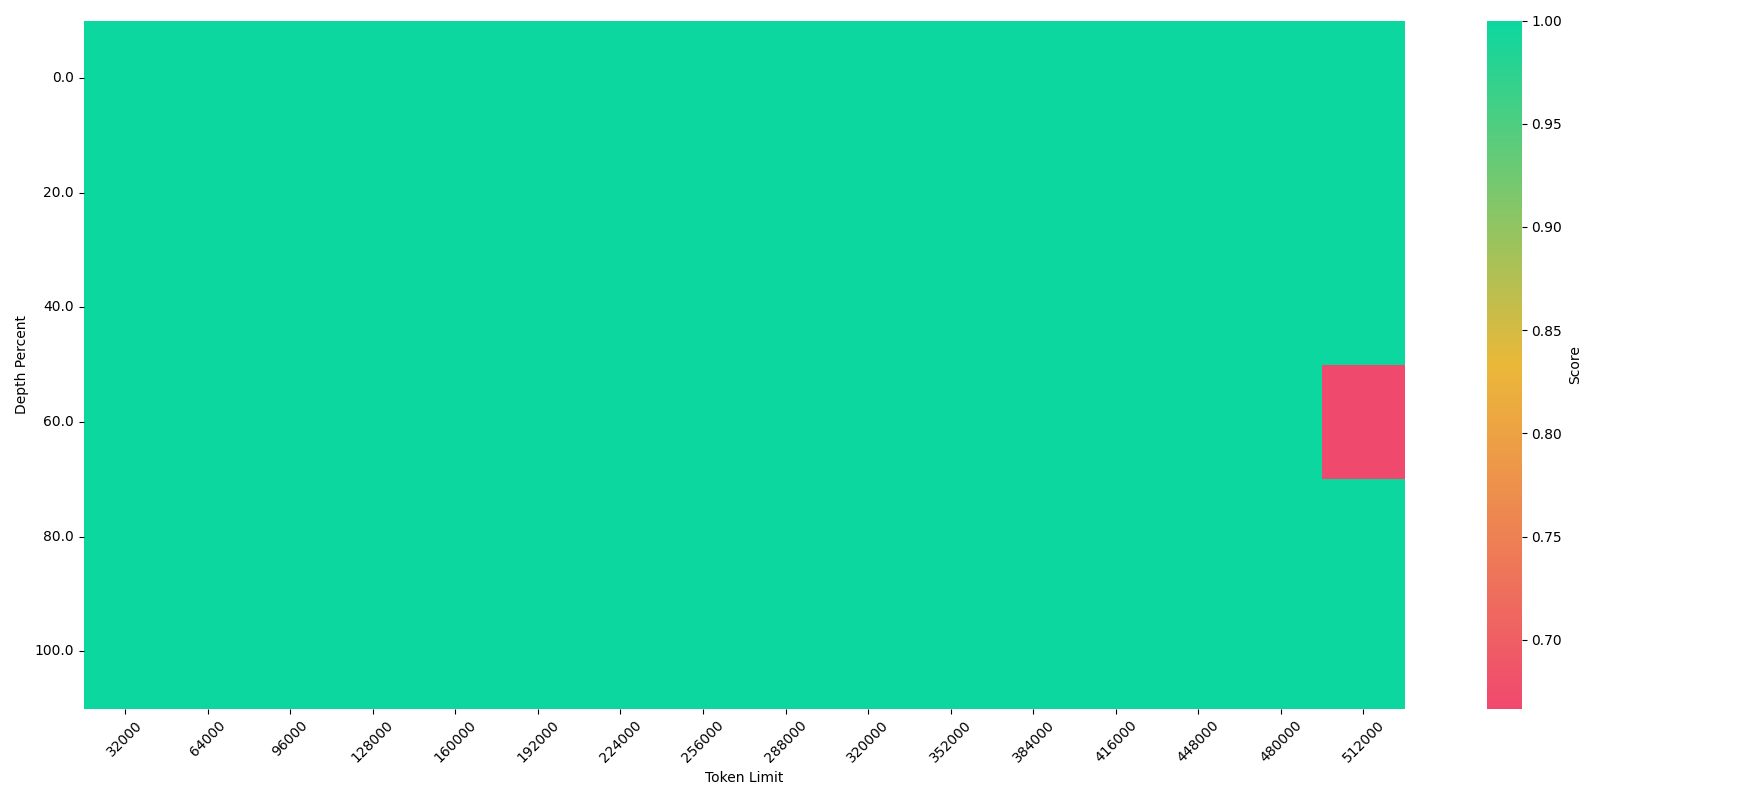
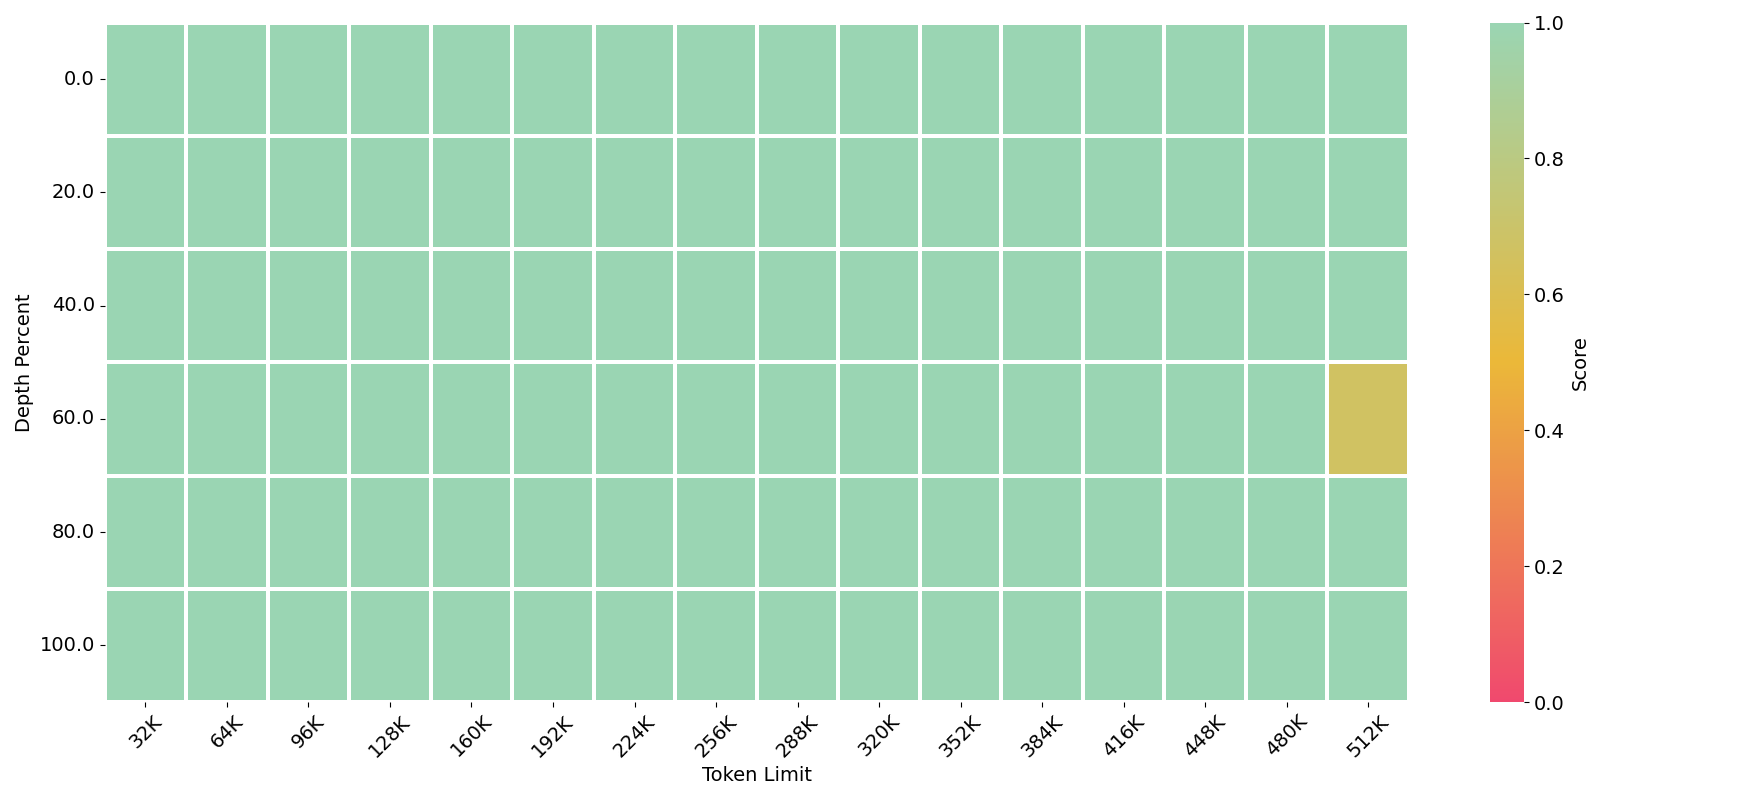
ok

diff --git a/text_extend/eval_text_niah.py b/text_extend/eval_text_niah.py
@@ -13,6 +13,7 @@ from tqdm import tqdm
 import gc
 import matplotlib.pyplot as plt
 from matplotlib.colors import LinearSegmentedColormap
+from matplotlib.ticker import FuncFormatter
 from easy_context import Qwen2ForCausalLM_RingAttn
 import os
 import seaborn as sns
@@ -289,23 +290,39 @@ def plot(args,  all_accuries):
     )
     # Create the heatmap with better aesthetics
     plt.figure(figsize=(17.5, 8))  # Can adjust these dimensions as needed
-    sns.heatmap(
+    ax = sns.heatmap(
         pivot_table,
         # annot=True,
         fmt="g",
         vmin=0,
         vmax=1,
         linecolor='white',
-        linewidths=0.5, 
+        linewidths=1.5, 
         cmap=cmap,
         cbar_kws={"label": "Score"},
     )
+    
+    # Set the color bar label font size
+    cbar = ax.collections[0].colorbar
+    cbar.ax.yaxis.label.set_size(14)
+    cbar.ax.tick_params(labelsize=14)
+
+    
+    # Define the formatter function
+    def thousands_formatter(x, pos):
+        if x >= 1000:
+            return f'{int(x/1000)}K'
+        return f'{x}'
+
+    context_lengths = pivot_table.columns
+    formatted_context_lengths = [thousands_formatter(x, None) for x in context_lengths]
 
     # More aesthetics
-    plt.xlabel("Token Limit")  # X-axis label
-    plt.ylabel("Depth Percent")  # Y-axis label
-    plt.xticks(rotation=45)  # Rotates the x-axis labels to prevent overlap
-    plt.yticks(rotation=0)  # Ensures the y-axis labels are horizontal
+    plt.xlabel("Token Limit", fontsize=14)  # X-axis label
+    plt.ylabel("Depth Percent", fontsize=14)  # Y-axis label
+    plt.xticks(ticks=[i + 0.5 for i in range(len(context_lengths))], labels=formatted_context_lengths, rotation=45, fontsize=14)
+    # plt.xticks(rotation=45, fontsize=14)  # Rotates the x-axis labels to prevent overlap
+    plt.yticks(rotation=0, fontsize=14)  # Ensures the y-axis labels are horizontal
     plt.tight_layout()  # Fits everything neatly into the figure area
     # save
     model_name = args.model.split("/")[-1]
